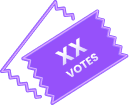
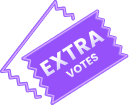
design change in upgread

Changed region(s): [[0.3101, 0.2857, 0.8062, 0.7429]]

diff --git a/coin-parliament/src/Components/Profile/UpgradePage.tsx b/coin-parliament/src/Components/Profile/UpgradePage.tsx
@@ -131,17 +131,19 @@ useEffect(() => {
 `;
   
   const BottomBox = styled.div` 
+  // border:1px solid red;
   display:flex;
-  justify-content: center;
+  justify-content: space-between;
   align-items: center;
   flex-wrap: wrap;
   margin-top:${window.screen.width >767 ? "50px" :"10px"};
   margin-bottom:${window.screen.width >767 ? "50px" :"10px"};
   flex-direction: column;
-  width:${window.screen.width >767 ? "25%" :"100%"};
+  width:${window.screen.width >767 ? "30%" :"100%"};
+  height:${window.screen.width >767 ? "auto" :"130px"};
   & p {
     margin-top:5px;
-    font-size:13px;
+    font-size:14px;
     text-align:center;
    background: -webkit-linear-gradient(270deg, #FEFEFE 35.94%, #3C1ABA 100%);
   -webkit-background-clip: text;
@@ -198,22 +200,21 @@ useEffect(() => {
             style={{width:`${window.screen.width > 767 ?"50%" :"100%"}`}}
             >
               <div>
-                <SideBox >                                                    
-                    <div 
+                <SideBox>
+                  
+                    <div
                     style={{ width: "30%" }}
                     className="d-flex justify-content-center align-items-center"
                     >
-                    <img src={Gift} alt="Gift"  width={"60px"}/>
+                  <img src={Frame} alt="" width={"60px"}/>
                     </div>
-                      
-                    <div className=""
+                    <div
                     style={{width:"70%"}}
                     >
-                      <p>Purchases</p>
-                      <span>Use your parliament coin (V2E) to buy merchandise</span>
-                      </div>
-                  
-                
+                      <p>Full mining machine</p>
+                      <span>Mine PAX BEP20 token</span>
+                  </div>
+              
                 </SideBox>
 
 
@@ -235,22 +236,26 @@ useEffect(() => {
               
                 </SideBox>
 
-                <SideBox>
-                  
-                    <div
+                
+
+                <SideBox >                                                    
+                    <div 
                     style={{ width: "30%" }}
                     className="d-flex justify-content-center align-items-center"
                     >
-                  <img src={Frame} alt="" width={"60px"}/>
+                    <img src={Gift} alt="Gift"  width={"60px"}/>
                     </div>
-                    <div
+                      
+                    <div className=""
                     style={{width:"70%"}}
                     >
-                      <p>Full mining machine</p>
-                      <span>Mine PAX BEP20 token</span>
-                  </div>
-              
+                      <p>Purchases</p>
+                      <span>Use your parliament coin (V2E) to buy merchandise</span>
+                      </div>
+                  
+                
                 </SideBox>
+
               </div>
             </div>                                         
           </div>
@@ -261,7 +266,7 @@ useEffect(() => {
                 marginTop: "0px",
                 paddingTop: "30px",
                 fontWeight: "bold",
-                textTransform:'uppercase'
+                // textTransform:'uppercase'
               }}
             >
               {translate("In addition, you will receive the following gifts")}
@@ -333,16 +338,16 @@ useEffect(() => {
           
           <div className="d-flex justify-content-around my-4 flex-wrap">          
             <BottomBox className="">
-              <img src={VOUCHER} alt="" width={"90px"} className="mt-5"/>
+              <img src={VOUCHER} alt="" width={"100px"} className="mt-3"/>
               <p className="">Voucher for merchandise purchase</p>
             </BottomBox>  
-            <BottomBox>
+            <BottomBox className=" ">
               <img src={XXVote} alt="" width={"90px"}/>
-              <p className="mt-3">XX Extra votes</p>
+              <p className="mt-3">Extra votes</p>
             </BottomBox>  
-            <BottomBox>
+            <BottomBox className=" ">
               <img src={XXCOIN} alt="" width={"100px"}/>
-              <p className="mt-3">XX Parliament coins (V2E)</p>
+              <p className="mt-3">Parliament coins (V2E)</p>
             </BottomBox>  
           </div>
           

diff --git a/coin-parliament/src/Components/Profile/VotingBooster.tsx b/coin-parliament/src/Components/Profile/VotingBooster.tsx
@@ -161,6 +161,7 @@ const VotingBooster = () => {
         style={{
           zIndex: 1,
           marginTop: "35px",
+          fontSize:"1.25rem",
         }}
       >
         {translate("BOOST YOUR VOTING POWER").toUpperCase()}
